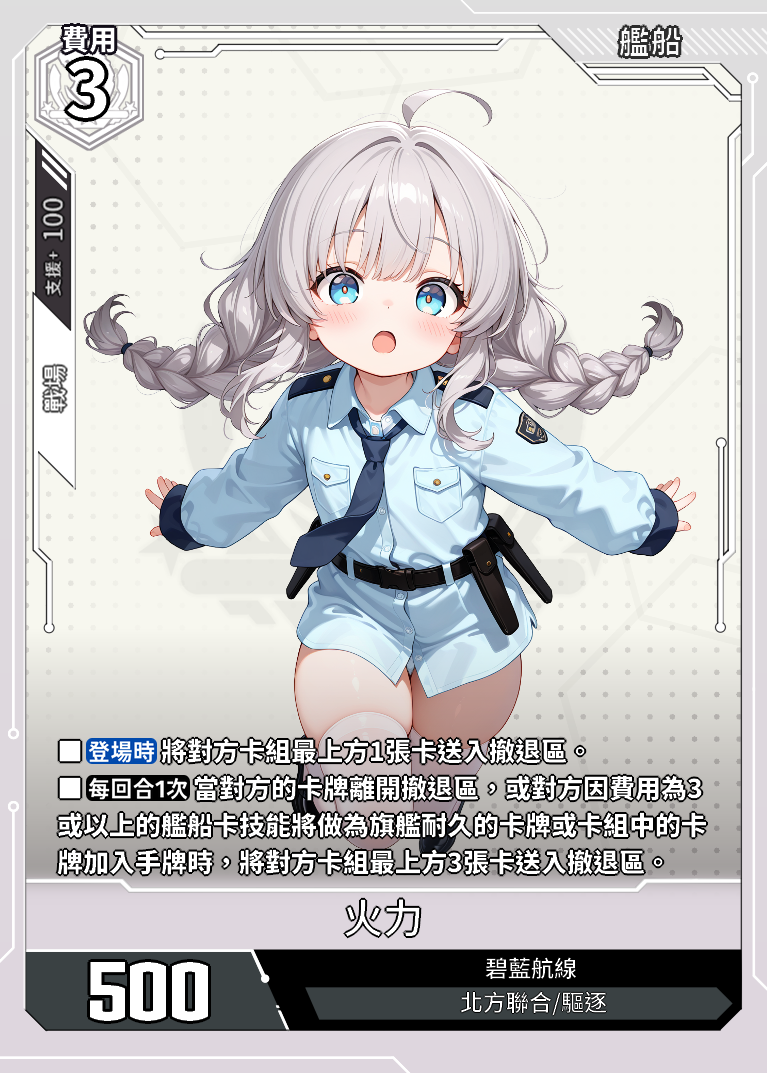
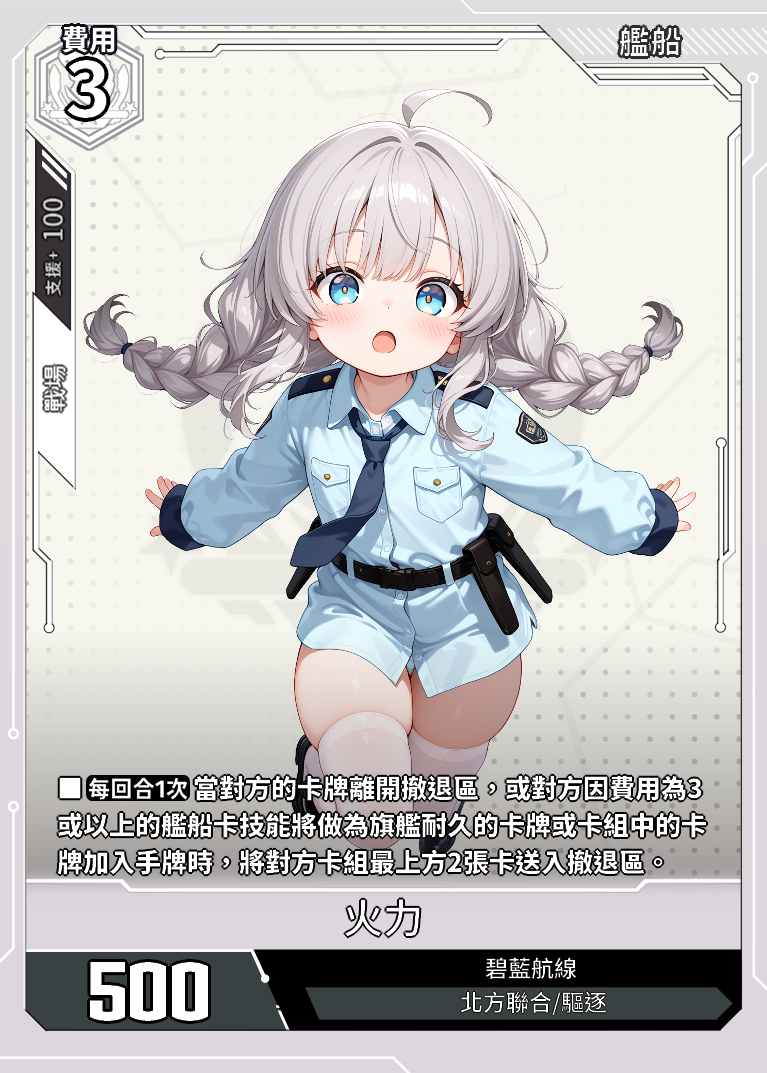
新增修改

Changed region(s): [[0.06, 0.6766, 0.7797, 0.7381], [0.5698, 0.7996, 0.5997, 0.8304]]

diff --git a/data.js b/data.js
@@ -24587,6 +24587,25 @@ const cards = [
         "acquisition_method": "CE02-早期測試"
     },
 	{
+        "card_id": 7522200,
+        "card_name": "薩拉托加.改",
+        "card_code": "CE02-220",
+        "attributes": {
+            "顏　色": "藍",
+            "種　類": "艦船卡",
+            "費　用": "7",
+            "戰　力": "600",
+            "陣　營": "白鷹",
+            "艦船類型": "航母",
+            "罕　貴": "-",
+            "勢　力": "碧藍航線",
+            "支援範圍": "手牌·戰場",
+            "支援值": "100"
+        },
+        "card_effect": "■【改造】⑥：「薩拉托加」■【遠程】■【轉為休息狀態時】抽2張卡，將2張手牌置於卡組的最上方或最下方。",
+        "acquisition_method": "CE02-早期測試"
+    },
+	{
         "card_id": 7523010,
         "card_name": "標槍",
         "card_code": "CE02-301",
@@ -25457,7 +25476,7 @@ const cards = [
             "支援範圍": "手牌·戰場",
             "支援值": "100"
         },
-        "card_effect": "■【登場時】從以下選擇1項。・選擇對方戰場上的1張艦船卡，直到下一個對方回合結束時，該卡不能攻擊。・當己方旗艦卡為《北方聯合》卡牌且對方撤退區存在25張或以上卡牌時，可以捨棄1張手牌：選擇對方撤退區的1張艦船卡，將對方戰場上的1張與該艦船卡同名的艦船卡擊破。",
+        "card_effect": "■【登場時】從以下選擇1項。・選擇對方戰場上的1張艦船卡，直到下一個對方回合結束時，該卡不能攻擊。・當己方旗艦卡為《北方聯合》卡牌且對方撤退區存在20張或以上卡牌時，可以捨棄1張手牌：將1張費用與此前捨棄的卡牌相同或更低的對方戰場上的艦船卡擊破。",
         "acquisition_method": "CE02-早期測試"
     },
 	{
@@ -25685,7 +25704,7 @@ const cards = [
             "支援範圍": "戰場",
             "支援值": "100"
         },
-        "card_effect": "■【登場時】將對方卡組最上方1張卡送入撤退區。■【每回合1次】 當對方的卡牌離開撤退區，或是對方因費用為3或以上的艦船卡技能將做為旗艦耐久的卡牌或卡組中的卡牌加入手牌時，將對方卡組最上方3張卡送入撤退區。",
+        "card_effect": "■【每回合1次】 當對方的卡牌離開撤退區，或是對方因費用為3或以上的艦船卡技能將做為旗艦耐久的卡牌或卡組中的卡牌加入手牌時，將對方卡組最上方2張卡送入撤退區。",
         "acquisition_method": "CE02-早期測試"
     }
 ]
